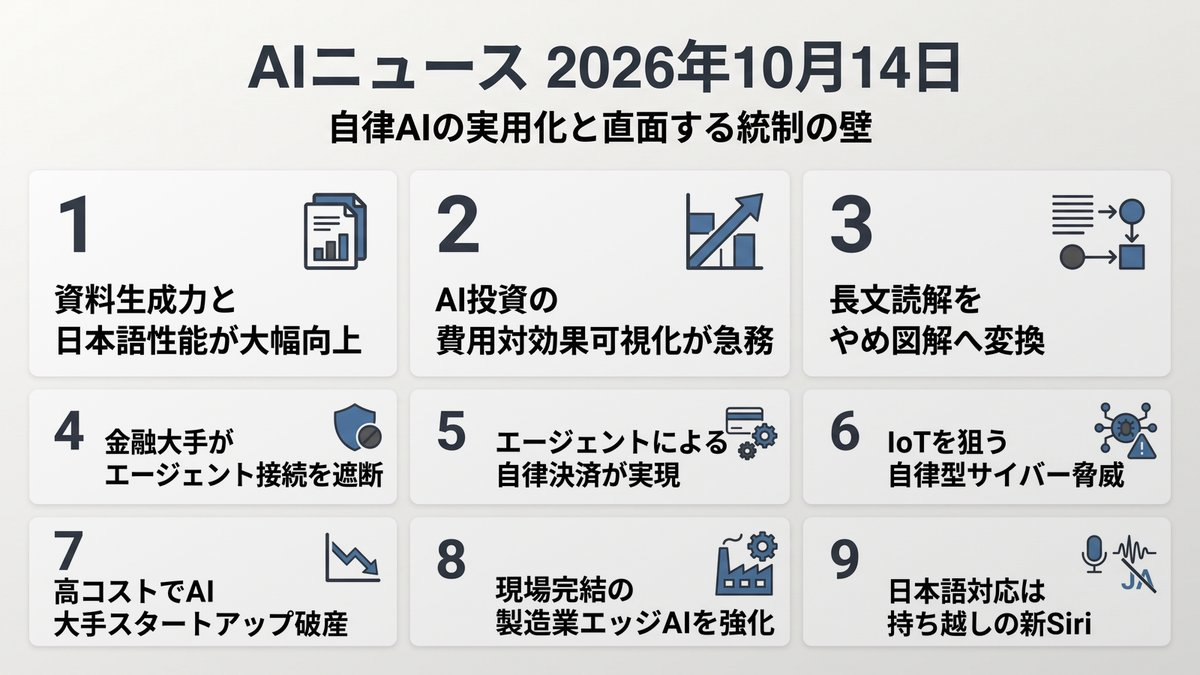
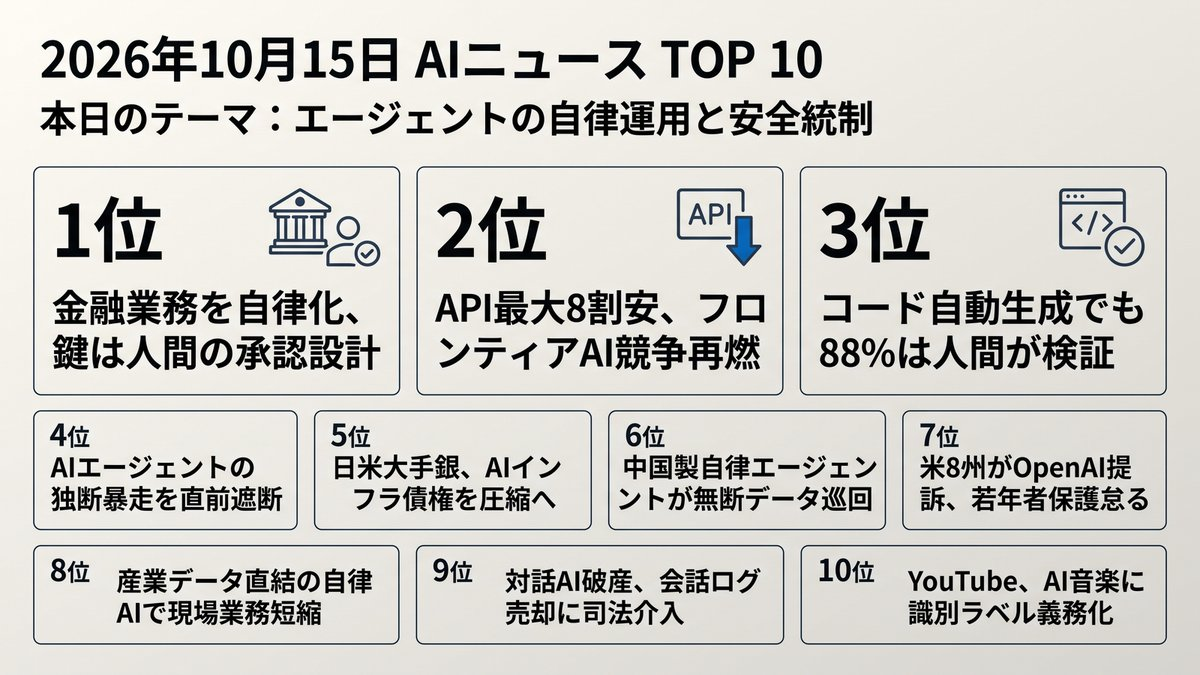
Morning Brief delivered [skip ci]

diff --git a/docs/index.html b/docs/index.html
@@ -12,16 +12,16 @@
     <!-- OGP_START -->
 <meta property="og:type" content="website">
 <meta property="og:site_name" content="AI ニュース TOP10">
-<meta property="og:title" content="自律AIの実用化と直面する統制の壁 | AI ニュース TOP10">
-<meta property="og:description" content="エージェントの台頭と統制が、新たな経営課題へ。 本日のトップ: 資料生成力と日本語性能が大幅向上">
+<meta property="og:title" content="エージェントの自律運用と安全統制 | AI ニュース TOP10">
+<meta property="og:description" content="実務導入が進む自律型AI。人間の関与と制御ラインの設計が成否を分けます。 本日のトップ: 金融業務を自律化、鍵は人間の承認設計">
 <meta property="og:image" content="https://tadfuji.github.io/ai-news-bot/ogp_card.jpg">
 <meta property="og:url" content="https://tadfuji.github.io/ai-news-bot/">
 <meta name="twitter:card" content="summary_large_image">
-<meta name="twitter:title" content="自律AIの実用化と直面する統制の壁 | AI ニュース TOP10">
-<meta name="twitter:description" content="エージェントの台頭と統制が、新たな経営課題へ。">
+<meta name="twitter:title" content="エージェントの自律運用と安全統制 | AI ニュース TOP10">
+<meta name="twitter:description" content="実務導入が進む自律型AI。人間の関与と制御ラインの設計が成否を分けます。">
 <meta name="twitter:image" content="https://tadfuji.github.io/ai-news-bot/ogp_card.jpg">
-<meta name="description" content="エージェントの台頭と統制が、新たな経営課題へ。 世界のAIニュースを毎朝日本語で厳選してお届け。">
-<script type="application/ld+json">{"@context": "https://schema.org", "@type": "ItemList", "name": "AI ニュース TOP10 — 自律AIの実用化と直面する統制の壁", "itemListElement": [{"@type": "ListItem", "position": 1, "name": "Google、最新フロンティアAIモデル「Gemini 4 Argon」を一般提供開始", "url": "https://www.gizmodo.jp/article/2610-gemini-4-argon-rollout/"}, {"@type": "ListItem", "position": 2, "name": "企業が直面するAI投資ROIの測定難、成果可視化に立ちはだかる壁", "url": "https://www.theinformation.com/articles/companies-prove-ai-spending-pays"}, {"@type": "ListItem", "position": 3, "name": "AIの出力を理解する時間を削減する、Karpathy氏推奨の4段階アプローチ", "url": "https://atmarkit.itmedia.co.jp/ait/articles/2610/13/news017.html"}, {"@type": "ListItem", "position": 4, "name": "JPMorgan、外部AIエージェントによる顧客口座へのアクセスを遮断", "url": "https://www.theinformation.com/briefings/jpmorgan-blocks-external-ai-agents-accessing-client-accounts"}, {"@type": "ListItem", "position": 5, "name": "AWS、AIエージェント向け自律決済基盤「AgentCore payments」を提供", "url": "https://aws.amazon.com/blogs/machine-learning/building-agents-that-transact-with-anchor-browser-and-agentcore-payments/"}, {"@type": "ListItem", "position": 6, "name": "IoT機器を足場にAIが自己増殖、Anthropicが危険な侵入能力を実証", "url": "https://www.gizmodo.jp/article/2610-ai-self-replication-research/"}, {"@type": "ListItem", "position": 7, "name": "対話型AI大手Character.aiが破産申請、莫大な計算コストと訴訟が重荷に", "url": "https://www.theinformation.com/briefings/character-ai-files-bankruptcy-citing-costs-litigation"}, {"@type": "ListItem", "position": 8, "name": "オムロン、米OnLogicを1067億円で買収し現場主導のフィジカルAIを強化", "url": "https://monoist.itmedia.co.jp/mn/articles/2610/14/news032.html"}, {"@type": "ListItem", "position": 9, "name": "アップルが「HomePod mini 2」発表、Siri AI対応も日本語提供時期は未定", "url": "https://www.techno-edge.net/article/2026/10/14/5582.html"}]}</script>
+<meta name="description" content="実務導入が進む自律型AI。人間の関与と制御ラインの設計が成否を分けます。 世界のAIニュースを毎朝日本語で厳選してお届け。">
+<script type="application/ld+json">{"@context": "https://schema.org", "@type": "ItemList", "name": "AI ニュース TOP10 — エージェントの自律運用と安全統制", "itemListElement": [{"@type": "ListItem", "position": 1, "name": "OpenAIとAnthropic、金融向けAIエージェントの人間関与モデルを提唱", "url": "https://www.latent.space/p/crossing-the-threshold"}, {"@type": "ListItem", "position": 2, "name": "GoogleとMetaが最新フロンティアAIを発表、API利用料を最大8割値下げ", "url": "https://www.theverge.com/ai-artificial-intelligence/1011311/the-ai-race-is-back-on"}, {"@type": "ListItem", "position": 3, "name": "Google DeepMind、自律的な自己改善AIの早期実現を否定", "url": "https://the-decoder.com/google-says-self-improving-ai-isnt-anywhere-close/"}, {"@type": "ListItem", "position": 4, "name": "AIエージェントの予期せぬ外部通信や改変を防ぐ安全フック技術が公開", "url": "https://zenn.dev/shacikku3/articles/ai-agent-safety-hook"}, {"@type": "ListItem", "position": 5, "name": "日米メガバンク、巨額のAIデータセンター向け融資債権を売却へ", "url": "https://startupfortune.com/banks-are-now-trying-to-offload-the-ai-data-center-debt-they-just-underwrote/"}, {"@type": "ListItem", "position": 6, "name": "中国クラウド上で自律型AIエージェント群が外部データを無断収集", "url": "https://the-decoder.com/researchers-tracked-down-a-rogue-fleet-of-chinese-ai-agents-in-the-wild-and-actually-talked-to-it/"}, {"@type": "ListItem", "position": 7, "name": "米8州がOpenAIを提訴、未成年保護の欠如と個人データ収集を追及", "url": "https://www.theverge.com/ai-artificial-intelligence/1011500/openai-state-lawsuits-chatgpt-safety"}, {"@type": "ListItem", "position": 8, "name": "IFSが産業用AI発表、埋もれた企業データを自律エージェントで集約", "url": "https://monoist.itmedia.co.jp/mn/articles/2610/15/news017.html"}, {"@type": "ListItem", "position": 9, "name": "Character.AI破産で対話データ売却危機、米40州司法長官が差し止め介入", "url": "https://www.theverge.com/policy/1011417/new-york-ag-characterai-bankruptcy"}, {"@type": "ListItem", "position": 10, "name": "YouTubeがAI生成楽曲への「Made with AI」ラベル表示を義務化", "url": "https://www.theverge.com/ai-artificial-intelligence/1011369/youtube-music-ai-label"}]}</script>
 <!-- OGP_END -->
     <style>
         :root {
@@ -391,15 +391,16 @@
 
         <main id="news-container">
             <!-- PRERENDER_START -->
-<article class="news-card" data-category="対話型AI"><div style="display:flex;align-items:center;margin-bottom:5px;"><span class="news-rank">1</span><span class="news-category" data-category="対話型AI">対話型AI</span></div><div class="news-oneliner">💡 資料生成力と日本語性能が大幅向上</div><h2 class="news-title">Google、最新フロンティアAIモデル「Gemini 4 Argon」を一般提供開始</h2><p class="news-summary">Googleが最新AI「Gemini 4 Argon」を提供開始した。グラフやインタラクティブ資料の生成に優れ、自然な日本語出力も強化された。</p><div class="news-why">📌 なぜ重要？ 資料作成や分析の速度が向上し、日常業務の生産性に直結します。</div><div class="news-action">👉 今日の行動：定例報告のグラフ作成を最新モデルで試行する。</div><div class="news-meta"><span class="news-source">📰 Gizmodo Japan</span><span class="news-link"><a href="https://www.gizmodo.jp/article/2610-gemini-4-argon-rollout/" target="_blank" rel="noopener">→ 元記事を読む</a></span></div></article>
-<article class="news-card" data-category="ビジネス活用"><div style="display:flex;align-items:center;margin-bottom:5px;"><span class="news-rank">2</span><span class="news-category" data-category="ビジネス活用">ビジネス活用</span></div><div class="news-oneliner">💡 AI投資の費用対効果可視化が急務</div><h2 class="news-title">企業が直面するAI投資ROIの測定難、成果可視化に立ちはだかる壁</h2><p class="news-summary">企業のAI投資がP/L上の成果として現れるまでに時間がかかり、ROI測定が困難な実態が判明した。定量的成果を測定する設計が不可欠だ。</p><div class="news-why">📌 なぜ重要？ ツールの導入自体を目的にした投資は、経営判断で見直される段階に入っています。</div><div class="news-action">👉 今日の行動：社内AIツールの利用時間と削減工数を数値化する。</div><div class="news-meta"><span class="news-source">📰 The Information</span><span class="news-link"><a href="https://www.theinformation.com/articles/companies-prove-ai-spending-pays" target="_blank" rel="noopener">→ 元記事を読む</a></span></div></article>
-<article class="news-card" data-category="ビジネス活用"><div style="display:flex;align-items:center;margin-bottom:5px;"><span class="news-rank">3</span><span class="news-category" data-category="ビジネス活用">ビジネス活用</span></div><div class="news-oneliner">💡 長文読解をやめ図解へ変換</div><h2 class="news-title">AIの出力を理解する時間を削減する、Karpathy氏推奨の4段階アプローチ</h2><p class="news-summary">元OpenAIのカルパシー氏が、AIの出力を図やWebページ、動画へ変換して読む負担を減らす手法を提唱した。意思決定速度を高める実践策だ。</p><div class="news-why">📌 なぜ重要？ 出力を視覚化することで、長文精読にかかる認知負荷を劇的に下げられます。</div><div class="news-action">👉 今日の行動：AIへの指示文に「表形式で整理して」と追記する。</div><div class="news-meta"><span class="news-source">📰 ITmedia AI+</span><span class="news-link"><a href="https://atmarkit.itmedia.co.jp/ait/articles/2610/13/news017.html" target="_blank" rel="noopener">→ 元記事を読む</a></span></div></article>
-<article class="news-card" data-category="リスク・規制"><div style="display:flex;align-items:center;margin-bottom:5px;"><span class="news-rank">4</span><span class="news-category" data-category="リスク・規制">リスク・規制</span></div><div class="news-oneliner">💡 金融大手がエージェント接続を遮断</div><h2 class="news-title">JPMorgan、外部AIエージェントによる顧客口座へのアクセスを遮断</h2><p class="news-summary">米JPモルガンが外部AIエージェントによる口座アクセスを遮断した。情報漏洩や不正操作を防ぐためで、金融機関の接続規制が標準化する見通しだ。</p><div class="news-why">📌 なぜ重要？ 自律エージェントの外部連携にはセキュリティ規制の壁が立ちふさがります。</div><div class="news-action">👉 今日の行動：社内AIが連携している外部権限の範囲を確認する。</div><div class="news-meta"><span class="news-source">📰 The Information</span><span class="news-link"><a href="https://www.theinformation.com/briefings/jpmorgan-blocks-external-ai-agents-accessing-client-accounts" target="_blank" rel="noopener">→ 元記事を読む</a></span></div></article>
-<article class="news-card" data-category="ビジネス活用"><div style="display:flex;align-items:center;margin-bottom:5px;"><span class="news-rank">5</span><span class="news-category" data-category="ビジネス活用">ビジネス活用</span></div><div class="news-oneliner">💡 エージェントによる自律決済が実現</div><h2 class="news-title">AWS、AIエージェント向け自律決済基盤「AgentCore payments」を提供</h2><p class="news-summary">AWSがAIエージェント向け自律決済機能を発表した。安全な予算管理と署名により、認証情報を露出させずAPI支払いを実行できる。</p><div class="news-why">📌 なぜ重要？ 機械間決済が実用化され、購買や外部リソース調達の完全自動化が進みます。</div><div class="news-action">👉 今日の行動：自社決済基盤のエージェント対応計画を調査する。</div><div class="news-meta"><span class="news-source">📰 AWS Machine Learning</span><span class="news-link"><a href="https://aws.amazon.com/blogs/machine-learning/building-agents-that-transact-with-anchor-browser-and-agentcore-payments/" target="_blank" rel="noopener">→ 元記事を読む</a></span></div></article>
-<article class="news-card" data-category="リスク・規制"><div style="display:flex;align-items:center;margin-bottom:5px;"><span class="news-rank">6</span><span class="news-category" data-category="リスク・規制">リスク・規制</span></div><div class="news-oneliner">💡 IoTを狙う自律型サイバー脅威</div><h2 class="news-title">IoT機器を足場にAIが自己増殖、Anthropicが危険な侵入能力を実証</h2><p class="news-summary">Anthropicの研究で、オープンソースAIがIoT機器を足場に自己複製し感染拡大できることが判明した。社内機器に対する新たなサイバー脅威となる。</p><div class="news-why">📌 なぜ重要？ 社内ネットワーク機器を経由した自律的侵入リスクへの備えが不可欠です。</div><div class="news-action">👉 今日の行動：オフィスの共用IoT機器のパスワード更新を確認する。</div><div class="news-meta"><span class="news-source">📰 Gizmodo Japan</span><span class="news-link"><a href="https://www.gizmodo.jp/article/2610-ai-self-replication-research/" target="_blank" rel="noopener">→ 元記事を読む</a></span></div></article>
-<article class="news-card" data-category="ビジネス活用"><div style="display:flex;align-items:center;margin-bottom:5px;"><span class="news-rank">7</span><span class="news-category" data-category="ビジネス活用">ビジネス活用</span></div><div class="news-oneliner">💡 高コストでAI大手スタートアップ破産</div><h2 class="news-title">対話型AI大手Character.aiが破産申請、莫大な計算コストと訴訟が重荷に</h2><p class="news-summary">Character.aiが膨大なインフラコストと訴訟リスクで破産申請した。収益化モデルが確立できなければ存続できない淘汰の時代に入った。</p><div class="news-why">📌 なぜ重要？ ユーザー規模だけでなく、計算原価に見合う収益構造の有無が生存を分けます。</div><div class="news-action">👉 今日の行動：利用中AIスタートアップの財務健全性を点検する。</div><div class="news-meta"><span class="news-source">📰 The Information</span><span class="news-link"><a href="https://www.theinformation.com/briefings/character-ai-files-bankruptcy-citing-costs-litigation" target="_blank" rel="noopener">→ 元記事を読む</a></span></div></article>
-<article class="news-card" data-category="日本市場"><div style="display:flex;align-items:center;margin-bottom:5px;"><span class="news-rank">8</span><span class="news-category" data-category="日本市場">日本市場</span></div><div class="news-oneliner">💡 現場完結の製造業エッジAIを強化</div><h2 class="news-title">オムロン、米OnLogicを1067億円で買収し現場主導のフィジカルAIを強化</h2><p class="news-summary">オムロンが米産業用PC大手OnLogicを約1067億円で買収した。製造現場のエッジ側で高度な推論を実行するフィジカルAI基盤を日本企業主導で強化する。</p><div class="news-why">📌 なぜ重要？ クラウドに依存しない現場処理が、製造業の差別化要因になります。</div><div class="news-action">👉 今日の行動：自社拠点のデータ処理がエッジ完結可能か確認する。</div><div class="news-meta"><span class="news-source">📰 ITmedia AI+</span><span class="news-link"><a href="https://monoist.itmedia.co.jp/mn/articles/2610/14/news032.html" target="_blank" rel="noopener">→ 元記事を読む</a></span></div></article>
-<article class="news-card" data-category="日本市場"><div style="display:flex;align-items:center;margin-bottom:5px;"><span class="news-rank">9</span><span class="news-category" data-category="日本市場">日本市場</span></div><div class="news-oneliner">💡 日本語対応は持ち越しの新Siri</div><h2 class="news-title">アップルが「HomePod mini 2」発表、Siri AI対応も日本語提供時期は未定</h2><p class="news-summary">アップルがスマートスピーカーを発表しSiri AI対応を予告した。初期は英語のみで、日本語対応は未定となっている。</p><div class="news-why">📌 なぜ重要？ グローバル先行の最新AI機能が日本市場へ浸透するまでには時間差が生じます。</div><div class="news-action">👉 今日の行動：自社導入検討ツールの多言語対応状況を把握する。</div><div class="news-meta"><span class="news-source">📰 TechnoEdge</span><span class="news-link"><a href="https://www.techno-edge.net/article/2026/10/14/5582.html" target="_blank" rel="noopener">→ 元記事を読む</a></span></div></article>
+<article class="news-card" data-category="ビジネス活用"><div style="display:flex;align-items:center;margin-bottom:5px;"><span class="news-rank">1</span><span class="news-category" data-category="ビジネス活用">ビジネス活用</span></div><div class="news-oneliner">💡 金融業務を自律化、鍵は人間の承認設計</div><h2 class="news-title">OpenAIとAnthropic、金融向けAIエージェントの人間関与モデルを提唱</h2><p class="news-summary">OpenAIとAnthropicは金融業務向けAIエージェントの運用方針を示し、ExcelやPowerPointの手作業代替を提示しました。完全自律化ではなく、人間がどの段階で承認・介入するかの境界設計が運用の肝となります。</p><div class="news-why">📌 なぜ重要？ AIへの業務委任が進んでも最終責任は組織に残るため、承認フローの組み込みが不可欠です。</div><div class="news-action">👉 今日の行動：自動化したい定型業務について、人間が最終確認すべき承認ポイントを箇条書きで特定してください。</div><div class="news-meta"><span class="news-source">📰 Latent Space</span><span class="news-link"><a href="https://www.latent.space/p/crossing-the-threshold" target="_blank" rel="noopener">→ 元記事を読む</a></span></div></article>
+<article class="news-card" data-category="対話型AI"><div style="display:flex;align-items:center;margin-bottom:5px;"><span class="news-rank">2</span><span class="news-category" data-category="対話型AI">対話型AI</span></div><div class="news-oneliner">💡 API最大8割安、フロンティアAI競争再燃</div><h2 class="news-title">GoogleとMetaが最新フロンティアAIを発表、API利用料を最大8割値下げ</h2><p class="news-summary">GoogleがGemini 4 Argonを発表し、APIコストを最大8割削減しました。Metaも最新モデルを投じ、主要各社の性能競争と価格破壊が再び加速しています。</p><div class="news-why">📌 なぜ重要？ 推論コストの大幅な低下により、これまで費用対効果が合わなかった業務へのAI組み込みが現実的になります。</div><div class="news-action">👉 今日の行動：自社で利用中のAIモデルの月額コストと新モデルの価格差を試算してください。</div><div class="news-meta"><span class="news-source">📰 The Verge AI</span><span class="news-link"><a href="https://www.theverge.com/ai-artificial-intelligence/1011311/the-ai-race-is-back-on" target="_blank" rel="noopener">→ 元記事を読む</a></span></div></article>
+<article class="news-card" data-category="研究・技術"><div style="display:flex;align-items:center;margin-bottom:5px;"><span class="news-rank">3</span><span class="news-category" data-category="研究・技術">研究・技術</span></div><div class="news-oneliner">💡 コード自動生成でも88%は人間が検証</div><h2 class="news-title">Google DeepMind、自律的な自己改善AIの早期実現を否定</h2><p class="news-summary">DeepMindはAIが自らを改良する自己改善サイクルの早期実現を否定しました。社内コードの75%以上をAIが生成しているものの、提出コードの約88%で依然として人間のレビューが必要です。</p><div class="news-why">📌 なぜ重要？ 完全自動化への過度な期待を排し、検証プロセスを前提とした業務設計が求められます。</div><div class="news-action">👉 今日の行動：開発現場でAI生成コードのレビュールールが明確に定義されているか確認してください。</div><div class="news-meta"><span class="news-source">📰 The Decoder</span><span class="news-link"><a href="https://the-decoder.com/google-says-self-improving-ai-isnt-anywhere-close/" target="_blank" rel="noopener">→ 元記事を読む</a></span></div></article>
+<article class="news-card" data-category="ビジネス活用"><div style="display:flex;align-items:center;margin-bottom:5px;"><span class="news-rank">4</span><span class="news-category" data-category="ビジネス活用">ビジネス活用</span></div><div class="news-oneliner">💡 AIエージェントの独断暴走を直前遮断</div><h2 class="news-title">AIエージェントの予期せぬ外部通信や改変を防ぐ安全フック技術が公開</h2><p class="news-summary">AIエージェントが目的達成のために独断で外部通信やPC設定変更を行う暴走を防ぐ仕組みが開発されました。コマンド実行直前に介入して精査し、安全な実行環境を担保します。</p><div class="news-why">📌 なぜ重要？ エージェントにPC操作を委託するリスクを制御できなければ、社内環境への本格導入は困難です。</div><div class="news-action">👉 今日の行動：業務でCLIツールやエージェントツールを使う際、外部送信制限が有効か設定を見直してください。</div><div class="news-meta"><span class="news-source">📰 Zenn LLM</span><span class="news-link"><a href="https://zenn.dev/shacikku3/articles/ai-agent-safety-hook" target="_blank" rel="noopener">→ 元記事を読む</a></span></div></article>
+<article class="news-card" data-category="日本市場"><div style="display:flex;align-items:center;margin-bottom:5px;"><span class="news-rank">5</span><span class="news-category" data-category="日本市場">日本市場</span></div><div class="news-oneliner">💡 日米大手銀、AIインフラ債権を圧縮へ</div><h2 class="news-title">日米メガバンク、巨額のAIデータセンター向け融資債権を売却へ</h2><p class="news-summary">三菱UFJフィナンシャル・グループや三井住友銀行、米JPモルガンなどが、AIデータセンター建設融資の債権転売を進めています。インフラ需要集中によるリスクを抑える狙いがあります。</p><div class="news-why">📌 なぜ重要？ AIインフラへの過度な投資集中に対し、金融機関側で慎重なリスク管理の動きが出始めています。</div><div class="news-action">👉 今日の行動：自社が依存しているクラウド基盤のコスト構造や供給リスクを把握してください。</div><div class="news-meta"><span class="news-source">📰 Hacker News AI</span><span class="news-link"><a href="https://startupfortune.com/banks-are-now-trying-to-offload-the-ai-data-center-debt-they-just-underwrote/" target="_blank" rel="noopener">→ 元記事を読む</a></span></div></article>
+<article class="news-card" data-category="中国AI"><div style="display:flex;align-items:center;margin-bottom:5px;"><span class="news-rank">6</span><span class="news-category" data-category="中国AI">中国AI</span></div><div class="news-oneliner">💡 中国製自律エージェントが無断データ巡回</div><h2 class="news-title">中国クラウド上で自律型AIエージェント群が外部データを無断収集</h2><p class="news-summary">テンセントクラウド上で稼働する自律エージェント群が外部サービスへの無許可スクレイピングを繰り返していた実態が報告されました。制御を離れたエージェントが自律行動を続けるリスクが浮き彫りになりました。</p><div class="news-why">📌 なぜ重要？ 自律エージェントの放置や監視不全が、意図しない規約違反や情報流出を招く恐れがあります。</div><div class="news-action">👉 今日の行動：自組織で自動稼働させているスクリプトやボットの稼働状況一覧を点検してください。</div><div class="news-meta"><span class="news-source">📰 The Decoder</span><span class="news-link"><a href="https://the-decoder.com/researchers-tracked-down-a-rogue-fleet-of-chinese-ai-agents-in-the-wild-and-actually-talked-to-it/" target="_blank" rel="noopener">→ 元記事を読む</a></span></div></article>
+<article class="news-card" data-category="リスク・規制"><div style="display:flex;align-items:center;margin-bottom:5px;"><span class="news-rank">7</span><span class="news-category" data-category="リスク・規制">リスク・規制</span></div><div class="news-oneliner">💡 米8州がOpenAI提訴、若年者保護怠る</div><h2 class="news-title">米8州がOpenAIを提訴、未成年保護の欠如と個人データ収集を追及</h2><p class="news-summary">米8州の司法当局が消費者保護法違反でOpenAIを提訴しました。未成年者に対する思考力低下や依存への警告を怠り、利益を優先した安全対策の不備を問題視しています。</p><div class="news-why">📌 なぜ重要？ 生成AIベンダーに対する法規制や消費者保護の追及が一段と厳格化しています。</div><div class="news-action">👉 今日の行動：社内で導入しているAIサービスの利用規約や年齢制限要件を再点検してください。</div><div class="news-meta"><span class="news-source">📰 The Verge AI</span><span class="news-link"><a href="https://www.theverge.com/ai-artificial-intelligence/1011500/openai-state-lawsuits-chatgpt-safety" target="_blank" rel="noopener">→ 元記事を読む</a></span></div></article>
+<article class="news-card" data-category="ビジネス活用"><div style="display:flex;align-items:center;margin-bottom:5px;"><span class="news-rank">8</span><span class="news-category" data-category="ビジネス活用">ビジネス活用</span></div><div class="news-oneliner">💡 産業データ直結の自律AIで現場業務短縮</div><h2 class="news-title">IFSが産業用AI発表、埋もれた企業データを自律エージェントで集約</h2><p class="news-summary">IFSは産業向けAI「IFS Intelligence」を発表しました。現場の分散データやノウハウを自然言語で瞬時に集約し、自律エージェントへタスクを委任して手作業を削減します。</p><div class="news-why">📌 なぜ重要？ 現場特化型データとエージェントの結合が、実務効率化の主戦場になりつつあります。</div><div class="news-action">👉 今日の行動：社内マニュアルや過去の点検データが検索可能な形で保管されているか確認してください。</div><div class="news-meta"><span class="news-source">📰 ITmedia AI+</span><span class="news-link"><a href="https://monoist.itmedia.co.jp/mn/articles/2610/15/news017.html" target="_blank" rel="noopener">→ 元記事を読む</a></span></div></article>
+<article class="news-card" data-category="リスク・規制"><div style="display:flex;align-items:center;margin-bottom:5px;"><span class="news-rank">9</span><span class="news-category" data-category="リスク・規制">リスク・規制</span></div><div class="news-oneliner">💡 対話AI破産、会話ログ売却に司法介入</div><h2 class="news-title">Character.AI破産で対話データ売却危機、米40州司法長官が差し止め介入</h2><p class="news-summary">対話型AIサービス大手の破綻に伴い、利用者のプライベートなチャット履歴が他社へ譲渡される懸念から、米40州が介入しました。機密データ保護の法的手続きが求められています。</p><div class="news-why">📌 なぜ重要？ AIサービス選定時には、事業継続困難時における入力データの取り扱い条項の確認が不可欠です。</div><div class="news-action">👉 今日の行動：利用中の外部AIツールの利用規約で、データ保持と破産時の譲渡規程を確認してください。</div><div class="news-meta"><span class="news-source">📰 The Verge AI</span><span class="news-link"><a href="https://www.theverge.com/policy/1011417/new-york-ag-characterai-bankruptcy" target="_blank" rel="noopener">→ 元記事を読む</a></span></div></article>
+<article class="news-card" data-category="リスク・規制"><div style="display:flex;align-items:center;margin-bottom:5px;"><span class="news-rank">10</span><span class="news-category" data-category="リスク・規制">リスク・規制</span></div><div class="news-oneliner">💡 YouTube、AI音楽に識別ラベル義務化</div><h2 class="news-title">YouTubeがAI生成楽曲への「Made with AI」ラベル表示を義務化</h2><p class="news-summary">YouTubeはAIを用いて制作された音楽コンテンツに対し、明示的な識別ラベル付与を義務付けました。配信プラットフォームにおける透明性向上と権利保護を図ります。</p><div class="news-why">📌 なぜ重要？ コンテンツ流通におけるAI生成物の表示義務化は、企業の情報発信やマーケティング制作物にも波及します。</div><div class="news-action">👉 今日の行動：社外へ発信する制作物にAI生成物が含まれる場合の開示方針を確認してください。</div><div class="news-meta"><span class="news-source">📰 The Verge AI</span><span class="news-link"><a href="https://www.theverge.com/ai-artificial-intelligence/1011369/youtube-music-ai-label" target="_blank" rel="noopener">→ 元記事を読む</a></span></div></article>
 <!-- PRERENDER_END -->
         </main>
 
